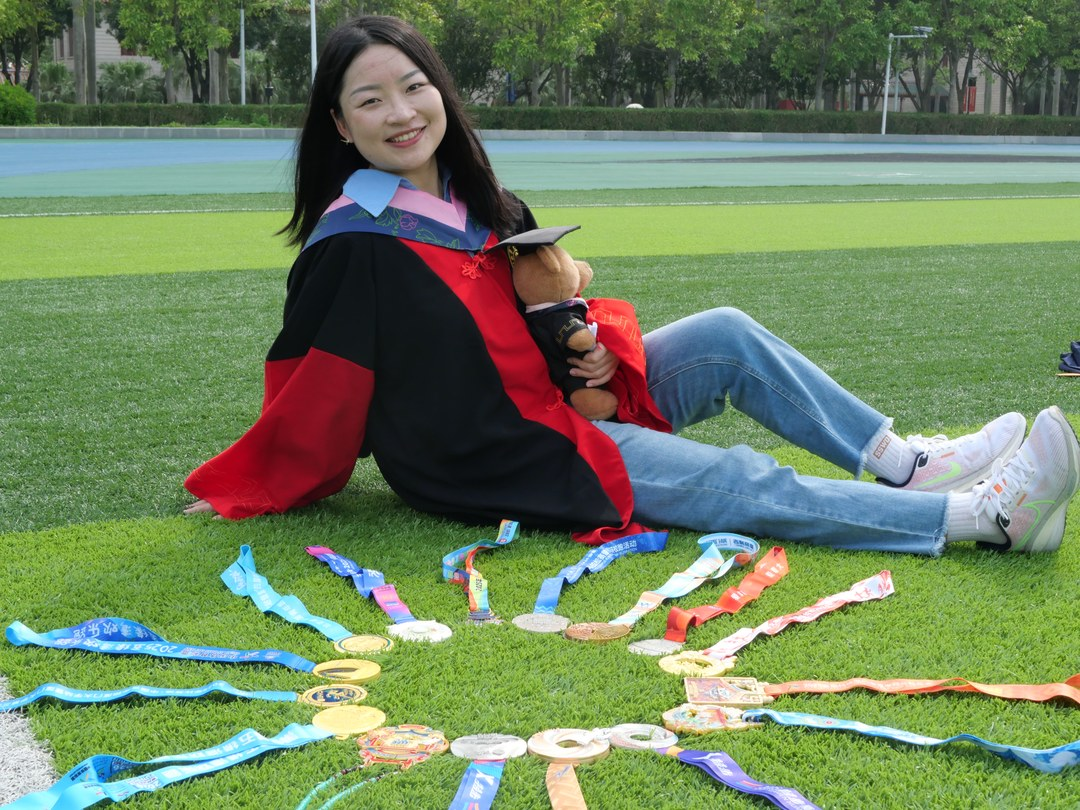
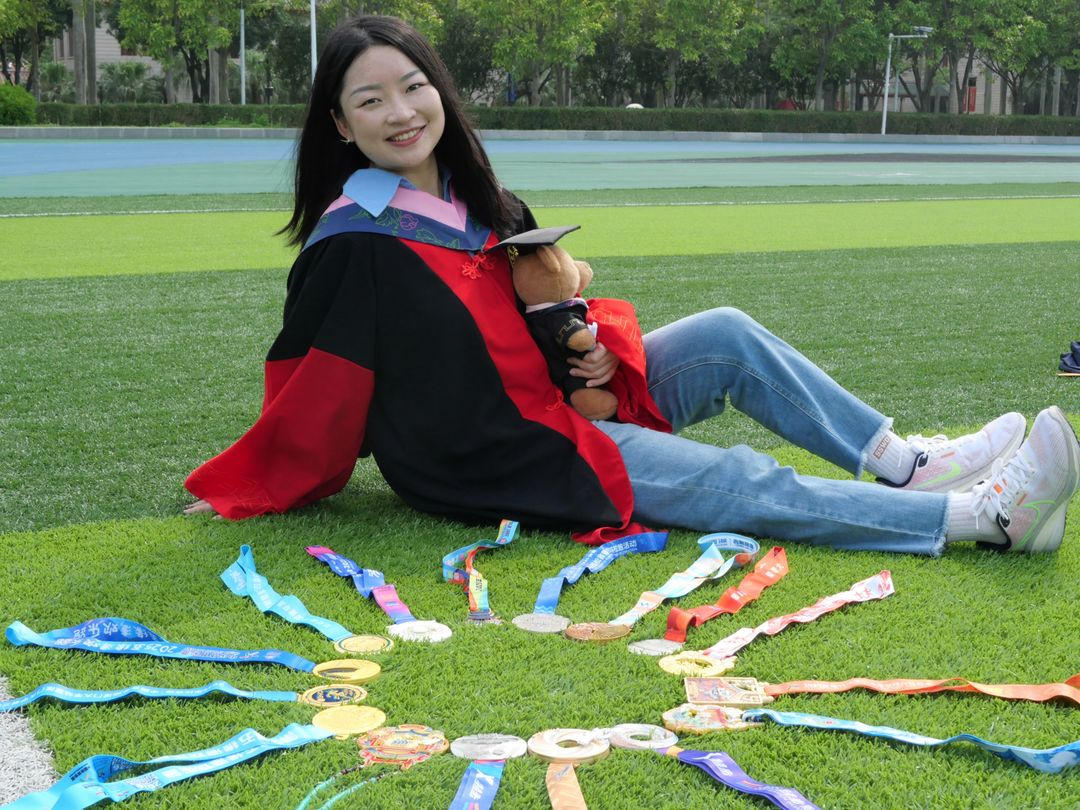
Unify biography records and refresh homepage photos

Changed region(s): [[0.3667, 0.1543, 0.4278, 0.1852], [0.3361, 0.1852, 0.3667, 0.216], [0.3361, 0.0309, 0.3667, 0.0617]]

diff --git a/en.html b/en.html
@@ -12,7 +12,7 @@
 {"@context":"https://schema.org","@type":"ProfilePage","url":"https://duoduoyu18.github.io/en.html","mainEntity":{"@type":"Person","@id":"https://duoduoyu18.github.io/#duoduo-yu","name":"喻多多","alternateName":"Duoduo Yu","url":"https://duoduoyu18.github.io/"}}
 </script>
 <link rel="icon" type="image/png" sizes="64x64" href="assets/favicon.png">
-<link rel="stylesheet" href="style.css?v=floating-nav">
+<link rel="stylesheet" href="style.css?v=record-layout">
 <script src="theme.js"></script>
 <header><nav aria-label="Main navigation"><a class="nav-name" href="#"><img class="nav-avatar" src="assets/avatar.jpg?v=b6f918be05" alt="" width="26" height="26">Duoduo Yu</a><div class="nav-links"><a href="#education">Education</a><a href="#projects">Projects & Experience</a><a href="#research">Research</a><a href="#life">Life</a>
   </div><div class="nav-controls"><a class="language-switch" href="index.html" hreflang="zh-CN" lang="zh-CN">中文</a><button type="button" id="theme" aria-label="Dark mode" aria-pressed="false" title="Toggle color theme"><span class="theme-icon" aria-hidden="true"></span></button></div>
@@ -21,13 +21,13 @@
   <div class="hero"><div><div class="hero-intro"><div class="hero-heading"><h1>Duoduo Yu</h1><a class="cv-link" href="assets/DuoduoYu-CV-Full.pdf?v=97f9477d3b"><span>CV</span><svg aria-hidden="true" viewBox="0 0 16 16" width="14" height="14" fill="none" stroke="currentColor" stroke-width="1.5" stroke-linecap="round" stroke-linejoin="round"><path d="M4 12 12 4M6 4h6v6"/></svg></a></div>
     <p class="hero-tagline">I build AI projects and care about exercise and health.</p></div>
     <p class="hero-note">Morning runner · Half-marathon PB 1:40:05<br>Indoor cycling instructor · NSCA-certified personal trainer (NSCA-CPT)</p>
-    <div class="hero-links"><a href="mailto:ydd14@tsinghua.org.cn">ydd14@tsinghua.org.cn</a></div></div><img src="assets/portrait.jpg?v=663e727a26" width="1080" height="810" fetchpriority="high" alt="Portrait of Duoduo Yu"></div>
+    <div class="hero-links"><a href="mailto:ydd14@tsinghua.org.cn">ydd14@tsinghua.org.cn</a></div></div><img src="assets/portrait.jpg?v=f2bed967e6" width="1080" height="810" fetchpriority="high" alt="Portrait of Duoduo Yu"></div>
   <section id="education">
     <h2>Education</h2><div class="section-content">
     <div class="education-list">
-      <p>PhD in Finance, with research on capital markets and corporate finance (Xiamen University, 2022–2026).</p>
-      <p>I earned a master's degree in applied economics at UCLA (2018–2019).</p>
-      <p>I earned a bachelor's degree in economics at Tsinghua University (2014–2018), with a minor in finance at the PBC School of Finance. In 2017, I studied at the University of British Columbia (UBC) as an exchange student.</p>
+      <p class="record"><strong>Xiamen University</strong><span class="record-detail">PhD in Finance, with research on capital markets and corporate finance.</span><span class="meta"><span class="record-date">2022–2026</span></span></p>
+      <p class="record"><strong>University of California, Los Angeles (UCLA)</strong><span class="record-detail">Master’s degree in applied economics.</span><span class="meta"><span class="record-date">2018–2019</span></span></p>
+      <p class="record"><strong>Tsinghua University</strong><span class="record-detail">Bachelor’s degree in economics with a minor in finance at the PBC School of Finance. In 2017, I studied at the University of British Columbia (UBC) as an exchange student.</span><span class="meta"><span class="record-date">2014–2018</span></span></p>
     </div></div>
   </section>
   <section id="projects">
@@ -36,7 +36,7 @@
     <article><div class="project-heading"><h3>AI for Indoor Cycling Classes</h3><a href="https://pilot.chuangnh.cn/pilot">Pilot site ↗</a></div><p>The AI assistant is in use in a university indoor cycling course. Students receive training suggestions and post-class feedback, and instructors can publish and review class workouts with AI assistance.</p></article>
     <article class="mini-project"><div><h3>Beats on Wheels</h3><p>A WeChat Mini Program for an indoor cycling team. Meet the instructors, listen to tracks, and save playlists.</p></div><img class="mini-code" src="assets/cycling-code.jpg" alt="WeChat Mini Program code for Beats on Wheels" width="258" height="258" loading="lazy" decoding="async"></article>
     <div class="subsection"><h3>Teaching & Education Work</h3>
-      <p><strong>Xiamen University · Teaching Assistant for English-taught courses</strong> <span class="meta">2023–2025</span></p>
+      <p class="record"><strong>Xiamen University</strong><span class="record-detail">Teaching Assistant for English-taught courses</span><span class="meta"><span class="record-date">2023–2025</span></span></p>
       <ul>
         <li>Advanced Econometrics II <span class="meta">· Spring 2025</span></li>
         <li>Quantitative Investment Strategies and Algorithmic Trading <span class="meta">· Spring 2025</span></li>
@@ -44,9 +44,9 @@
         <li>Mathematical Statistics <span class="meta">· Spring 2024</span></li>
         <li>Financial Risk Management <span class="meta">· Fall 2023</span></li>
       </ul>
-      <p><strong>Entrance Exam Prep Studio</strong> · Founder and Operator <span class="meta">· Qinghai · 2020–2022</span></p>
-      <p><strong>Hailiang Education</strong> · Curriculum Development Project Manager <span class="meta">· Hangzhou · 2019–2020</span></p>
-      <p><strong>Khan Academy</strong> · Economics Course Volunteer <span class="meta">· United States · 2018–2019</span></p>
+      <p class="record"><strong>Entrance Exam Prep Studio</strong><span class="record-detail">Founder and Operator</span><span class="meta">Qinghai · <span class="record-date">2020–2022</span></span></p>
+      <p class="record"><strong>Hailiang Education</strong><span class="record-detail">Curriculum Development Project Manager</span><span class="meta">Hangzhou · <span class="record-date">2019–2020</span></span></p>
+      <p class="record"><strong>Khan Academy</strong><span class="record-detail">Economics Course Volunteer</span><span class="meta">United States · <span class="record-date">2018–2019</span></span></p>
     </div></div>
   </section>
   <section id="research">
@@ -58,10 +58,10 @@
     </div>
     <div class="subsection research-group"><h3>Working Papers</h3><p class="paper-title">The Real Effects of State Capital ETF Ownership: How Policy Goals Interact with Market Mechanisms</p><p class="paper-title">State Capital ETF Ownership, Trading Structure, and Long-Term Price Informativeness</p><p class="paper-title">Easing Financing Constraints on Innovation: The Policy Effects of State Capital ETF Ownership</p></div>
     <div class="subsection research-group conference-list"><h3>Conferences</h3>
-      <p><strong>First Symposium on Frontiers in China’s Finance Knowledge System</strong> <span class="meta">September 2025 · Southwestern University of Finance and Economics, Chengdu</span></p>
-      <p><strong>China Finance Forum · 15th Journal of Financial Research Forum</strong> <span class="meta">December 2024 · Xiamen University</span></p>
-      <p><strong>Second China Macroeconomics Forum</strong> <span class="meta">November 2024 · Zhongnan University of Economics and Law, Wuhan</span></p>
-      <p><strong>Second China Corporate Finance Summer Forum</strong> <span class="meta">June 2024 · Wuhan University</span></p>
+      <p class="record"><strong>First Symposium on Frontiers in China’s Finance Knowledge System</strong><span class="meta"><span class="record-date">September 2025</span> · Southwestern University of Finance and Economics, Chengdu</span></p>
+      <p class="record"><strong>China Finance Forum · 15th Journal of Financial Research Forum</strong><span class="meta"><span class="record-date">December 2024</span> · Xiamen University</span></p>
+      <p class="record"><strong>Second China Macroeconomics Forum</strong><span class="meta"><span class="record-date">November 2024</span> · Zhongnan University of Economics and Law, Wuhan</span></p>
+      <p class="record"><strong>Second China Corporate Finance Summer Forum</strong><span class="meta"><span class="record-date">June 2024</span> · Wuhan University</span></p>
     </div></div>
   </section>
   <section id="life">
@@ -79,7 +79,7 @@
     <tr><td>2024-12-22</td><td>Xiamen Huandong Half Marathon</td><td>1:51:22</td></tr>
     <tr><td>2024-11-24</td><td>Xiamen Institute of Technology Autumn Marathon (Half)</td><td>1:57:54</td></tr>
     </tbody></table></div></article>
-    <article><h3>Indoor Cycling</h3><p>Peer instructor for indoor cycling at Xiamen University (2024–2026).</p><img class="activity-photo" src="assets/cycling.jpg?v=b81860acdb" alt="Duoduo Yu leading an indoor cycling class" width="570" height="760" loading="lazy" decoding="async"></article>
+    <article><h3>Indoor Cycling</h3><p class="record"><span class="record-detail">Peer instructor for indoor cycling at Xiamen University.</span><span class="meta"><span class="record-date">2024–2026</span></span></p><img class="activity-photo" src="assets/cycling.jpg?v=d83d3caaaf" alt="Duoduo Yu leading an indoor cycling class" width="570" height="760" loading="lazy" decoding="async"></article>
     <article><h3>Other Interests</h3><p>Freestyle swimming, classical guitar, and drums</p></article></div>
   </section>
 </main>

diff --git a/index.html b/index.html
@@ -12,7 +12,7 @@
 {"@context":"https://schema.org","@type":"ProfilePage","url":"https://duoduoyu18.github.io/","mainEntity":{"@type":"Person","@id":"https://duoduoyu18.github.io/#duoduo-yu","name":"喻多多","alternateName":"Duoduo Yu","url":"https://duoduoyu18.github.io/"}}
 </script>
 <link rel="icon" type="image/png" sizes="64x64" href="assets/favicon.png">
-<link rel="stylesheet" href="style.css?v=credential-wrap">
+<link rel="stylesheet" href="style.css?v=record-layout">
 <script src="theme.js"></script>
 <header><nav aria-label="主页导航"><a class="nav-name" href="#"><img class="nav-avatar" src="assets/avatar.jpg?v=b6f918be05" alt="" width="26" height="26">喻多多</a><div class="nav-links"><a href="#education">学历背景</a><a href="#projects">项目经历</a><a href="#research">学术研究</a><a href="#life">生活爱好</a>
   </div><div class="nav-controls"><a class="language-switch" href="en.html" hreflang="en" lang="en">English</a><button type="button" id="theme" aria-label="深色模式" aria-pressed="false" title="切换深浅外观"><span class="theme-icon" aria-hidden="true"></span></button></div>
@@ -21,13 +21,13 @@
   <div class="hero"><div><div class="hero-intro"><div class="hero-heading"><h1>喻多多</h1><a class="cv-link" href="assets/DuoduoYu-CV-Full.pdf?v=97f9477d3b"><span>简历</span><svg aria-hidden="true" viewBox="0 0 16 16" width="14" height="14" fill="none" stroke="currentColor" stroke-width="1.5" stroke-linecap="round" stroke-linejoin="round"><path d="M4 12 12 4M6 4h6v6"/></svg></a></div>
     <p class="hero-tagline">做AI项目，关心运动与健康。</p></div>
     <p class="hero-note">喜欢晨跑，半马PB为1:40:05。<br><span class="hero-credential">动感单车教练，NSCA-CPT<span class="credential-name">国际健身教练认证。</span></span></p>
-    <div class="hero-links"><a href="mailto:ydd14@tsinghua.org.cn">ydd14@tsinghua.org.cn</a></div></div><img src="assets/portrait.jpg?v=663e727a26" width="1080" height="810" fetchpriority="high" alt="喻多多的肖像"></div>
+    <div class="hero-links"><a href="mailto:ydd14@tsinghua.org.cn">ydd14@tsinghua.org.cn</a></div></div><img src="assets/portrait.jpg?v=f2bed967e6" width="1080" height="810" fetchpriority="high" alt="喻多多的肖像"></div>
   <section id="education">
     <h2>学历背景</h2><div class="section-content">
     <div class="education-list">
-      <p>金融学博士，研究资本市场和公司金融（厦门大学，2022–2026）。</p>
-      <p>在加州大学洛杉矶分校（UCLA）获得应用经济学硕士学位（2018–2019）。</p>
-      <p>在清华大学获得经济学学士学位（2014–2018），辅修五道口金融学院金融学。2017 年到英属哥伦比亚大学（UBC）交换。</p>
+      <p class="record"><strong>厦门大学</strong><span class="record-detail">金融学博士，研究资本市场和公司金融。</span><span class="meta"><span class="record-date">2022–2026</span></span></p>
+      <p class="record"><strong>加州大学洛杉矶分校（UCLA）</strong><span class="record-detail">应用经济学硕士。</span><span class="meta"><span class="record-date">2018–2019</span></span></p>
+      <p class="record"><strong>清华大学</strong><span class="record-detail">经济学学士，辅修五道口金融学院金融学。2017年到英属哥伦比亚大学（UBC）交换。</span><span class="meta"><span class="record-date">2014–2018</span></span></p>
     </div></div>
   </section>
   <section id="projects">
@@ -36,7 +36,7 @@
     <article><div class="project-heading"><h3>动感单车AI课堂</h3><a href="https://pilot.chuangnh.cn/pilot">试点入口 ↗</a></div><p>AI学伴已在某高校动感单车课程中使用，为学生提供训练建议和课后复盘，教师可以智能发布并复盘班级训练。</p></article>
     <article class="mini-project"><div><h3>车轮上的节拍</h3><p>给动感单车队做的微信小程序，可以认识队里的教练、听歌和收藏歌单。</p></div><img class="mini-code" src="assets/cycling-code.jpg" alt="车轮上的节拍微信小程序码" width="258" height="258" loading="lazy" decoding="async"></article>
     <div class="subsection"><h3>教育工作经历</h3>
-      <p><strong>厦门大学 · 全英文课程助教（TA）</strong> <span class="meta">2023–2025</span></p>
+      <p class="record"><strong>厦门大学</strong><span class="record-detail">全英文课程助教（TA）</span><span class="meta"><span class="record-date">2023–2025</span></span></p>
       <ul>
         <li>高级计量经济学（2） <span class="meta">· 2025 年春季</span></li>
         <li>量化投资策略与算法交易 <span class="meta">· 2025 年春季</span></li>
@@ -44,9 +44,9 @@
         <li>数理统计 <span class="meta">· 2024 年春季</span></li>
         <li>金融风险管理学 <span class="meta">· 2023 年秋季</span></li>
       </ul>
-      <p><strong>中高考教育工作室</strong> · 创办与运营 <span class="meta">· 青海 · 2020–2022</span></p>
-      <p><strong>海亮教育</strong> · 课程研发项目经理 <span class="meta">· 杭州 · 2019–2020</span></p>
-      <p><strong>可汗学院</strong> · 经济学课程志愿者 <span class="meta">· 美国 · 2018–2019</span></p>
+      <p class="record"><strong>中高考教育工作室</strong><span class="record-detail">创办与运营</span><span class="meta">青海 · <span class="record-date">2020–2022</span></span></p>
+      <p class="record"><strong>海亮教育</strong><span class="record-detail">课程研发项目经理</span><span class="meta">杭州 · <span class="record-date">2019–2020</span></span></p>
+      <p class="record"><strong>可汗学院</strong><span class="record-detail">经济学课程志愿者</span><span class="meta">美国 · <span class="record-date">2018–2019</span></span></p>
     </div></div>
   </section>
   <section id="research">
@@ -58,10 +58,10 @@
     </div>
     <div class="subsection research-group"><h3>工作论文</h3><p class="paper-title">国家资本持股ETF的实体经济效应：基于政策导向与市场机制耦合的视角</p><p class="paper-title">State Capital ETF Ownership, Trading Structure, and Long-Term Price Informativeness</p><p class="paper-title">破解创新融资困境：国家资本ETF持股的政策效应研究</p></div>
     <div class="subsection research-group conference-list"><h3>学术会议</h3>
-      <p><strong>首届金融自主知识体系前沿学术研讨会</strong> <span class="meta">2025 年 9 月 · 西南财经大学，成都</span></p>
-      <p><strong>中国金融论坛·第十五届《金融研究》论坛</strong> <span class="meta">2024 年 12 月 · 厦门大学</span></p>
-      <p><strong>第二届中国宏观经济学论坛</strong> <span class="meta">2024 年 11 月 · 中南财经政法大学，武汉</span></p>
-      <p><strong>第二届中国公司金融夏季论坛</strong> <span class="meta">2024 年 6 月 · 武汉大学</span></p>
+      <p class="record"><strong>首届金融自主知识体系前沿学术研讨会</strong><span class="meta"><span class="record-date">2025 年 9 月</span> · 西南财经大学，成都</span></p>
+      <p class="record"><strong>中国金融论坛·第十五届《金融研究》论坛</strong><span class="meta"><span class="record-date">2024 年 12 月</span> · 厦门大学</span></p>
+      <p class="record"><strong>第二届中国宏观经济学论坛</strong><span class="meta"><span class="record-date">2024 年 11 月</span> · 中南财经政法大学，武汉</span></p>
+      <p class="record"><strong>第二届中国公司金融夏季论坛</strong><span class="meta"><span class="record-date">2024 年 6 月</span> · 武汉大学</span></p>
     </div></div>
   </section>
   <section id="life">
@@ -79,7 +79,7 @@
     <tr><td>2024-12-22</td><td>厦门环东半程马拉松</td><td>1:51:22</td></tr>
     <tr><td>2024-11-24</td><td>厦门工学院马拉松秋季赛（半程）</td><td>1:57:54</td></tr>
     </tbody></table></div></article>
-    <article><h3>动感单车</h3><p>2024–2026 年厦门大学动感单车朋辈课堂教练。</p><img class="activity-photo" src="assets/cycling.jpg?v=b81860acdb" alt="喻多多带领动感单车课" width="570" height="760" loading="lazy" decoding="async"></article>
+    <article><h3>动感单车</h3><p class="record"><span class="record-detail">厦门大学动感单车朋辈课堂教练。</span><span class="meta"><span class="record-date">2024–2026</span></span></p><img class="activity-photo" src="assets/cycling.jpg?v=d83d3caaaf" alt="喻多多带领动感单车课" width="570" height="760" loading="lazy" decoding="async"></article>
     <article><h3>其他爱好</h3><p>自由泳、古典吉他、架子鼓</p></article></div>
   </section>
 </main>

diff --git a/style.css b/style.css
@@ -43,9 +43,6 @@ nav a:hover,nav a:focus-visible,button#theme:hover,button#theme:focus-visible{ba
 .research-group{margin-top:1.5rem}
 .research-group h3{margin-bottom:.55rem}
 .research-group .paper-title{font-weight:600;margin:.4rem 0}
-.conference-list strong{font-weight:600}
-.conference-list .meta{display:block;margin-top:.05rem}
-.conference-list p+p{margin-top:var(--space-paragraph)}
 @media(max-width:480px){nav a{padding-inline:.42rem;min-height:2.4rem}nav{gap:.15rem .2rem}}
 @media(prefers-reduced-motion:reduce){nav a{transition:none}}
 
@@ -63,8 +60,8 @@ nav a:hover,nav a:focus-visible,button#theme:hover,button#theme:focus-visible{ba
 #research .research-group>:not(h3){margin:0;padding:0}
 #research .research-group>:not(h3)+:not(h3){margin-top:.62rem}
 #research .research-entry p{margin:0}
-#research .paper-title,#research .conference-list strong{line-height:1.5}
-#research .research-entry .meta,#research .conference-list .meta{margin-top:.12rem}
+#research .paper-title{line-height:1.5}
+#research .research-entry .meta{margin-top:.12rem}
 
 header{position:sticky;top:.65rem;z-index:5;padding:0;margin:.65rem 0 0;border:1px solid var(--line);border-radius:.8rem;background:var(--bg);box-shadow:0 5px 18px #17231c19}
 nav{padding:.35rem .55rem;border-bottom:0}
@@ -73,7 +70,6 @@ main section{scroll-margin-top:6.5rem}
 #research .research-group + .research-group{margin-top:var(--space-group)}
 #research .research-group h3{font-weight:700;margin-bottom:var(--space-line)}
 .education-list p{margin:0}
-.education-list strong{font-weight:650}
 @media(max-width:480px){header{top:.35rem}nav{padding:.25rem .35rem}main section{scroll-margin-top:7rem}}
 body{max-width:76rem}
 main>section{display:grid;grid-template-columns:minmax(8rem,.21fr) minmax(0,1fr);gap:clamp(1.3rem,3vw,3.2rem);align-items:start;padding-block:clamp(1.5rem,3vw,2rem)}
@@ -139,3 +135,12 @@ header nav{--nav-icon-size:2.4rem}
 
 .hero-credential{display:block;text-wrap:balance}
 .credential-name{white-space:nowrap}
+
+.record strong{font-weight:600}
+.record-detail,.record>.meta{display:block}
+.record>.meta{margin-top:.12rem}
+.record-date{white-space:nowrap}
+.section-content li .meta{display:inline-block}
+@media(max-width:700px){
+  .mini-project{flex-direction:column}
+}
